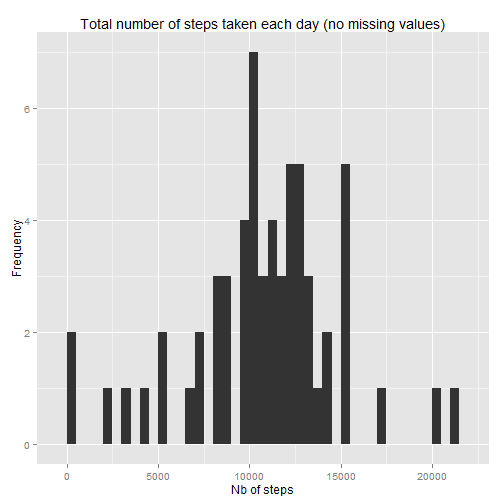
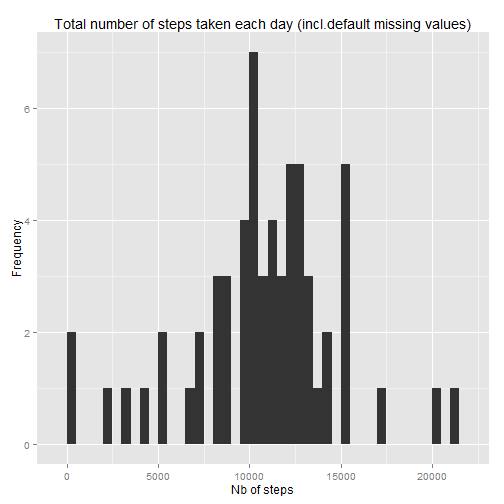
Fixing typos

Changed region(s): [[0.0893, 0.0298, 0.9524, 0.0595]]

diff --git a/PA1_template.html b/PA1_template.html
@@ -203,8 +203,9 @@ hr {
 <body>
 <h1>Reproducible Research: Peer Assessment 1</h1>
 
-<p>Coursera - S.Vercellotti - April 2015
-date: &ldquo;2015-04-18&rdquo;</p>
+<p>Coursera - Stephane Vercellotti</p>
+
+<p>Report generation date: &ldquo;2015-04-19&rdquo;</p>
 
 <p>output: 
   html_document:
@@ -278,11 +279,11 @@ print(g)
 <pre><code>## [1] 10765
 </code></pre>
 
-<p>The mean 10766.19 and the median 10765 are close to each other (<em>These values are highlighted on the above histogram</em>).</p>
+<p>The mean <strong>10766.19</strong> and the median <strong>10765</strong> are close to each other (<em>These values are highlighted on the above histogram as coloured lines</em>).</p>
 
 <h2>3. What is the average daily activity pattern?</h2>
 
-<p>Let&#39;s now group the dataframe across all intervals and get the mean steps values (*dataframe column name is &ldquo;mean_steps&rdquo;):</p>
+<p>Let&#39;s now group the dataframe across all intervals and get the mean steps values (<em>dataframe column name is &ldquo;mean_steps&rdquo;</em>):</p>
 
 <pre><code class="r">int_df  &lt;- df %&gt;% 
               group_by(interval) %&gt;% 
@@ -324,7 +325,7 @@ print(g)
 <p>There&#39;re <strong>2304</strong> missing values out of <strong>17568</strong> records. This represents roughly 
 <strong>13%</strong> which is quite significant.</p>
 
-<p>Defining a strategy for filling in all of the missing values in the dataset. </p>
+<p>###Devising a strategy for filling in all of the missing values in the dataset. </p>
 
 <pre><code class="r">qplot(interval,steps, data = df, na.rm=TRUE)
 </code></pre>
@@ -338,9 +339,9 @@ qplot(interval,steps, data = df, facets = . ~ weekday,na.rm=TRUE)
 
[1 lines of base64/hex data omitted]
 
-<p>One option to fill in missing observations could be to compte the mean number of steps per interval on a weekday basis as the above patterns seems to differ from one day to another. This hypothesis seems to make sense rather than computing the mean across all days. </p>
+<p>One option to fill in missing observations could be to compute the mean number of steps per interval on a weekday basis as the above patterns seems to differ from one day to another. This hypothesis seems to make sense rather than computing the mean across all days. </p>
 
-<p>Create a new dataset that is equal to the original dataset but with the missing data filled in.</p>
+<p>###Create a new dataset that is equal to the original dataset but with the missing data filled in.</p>
 
 <p>This section gets the mean nb of steps per interval per day, and merge the dataframes in order
 to replace NAs with the mean values as default values </p>
@@ -352,15 +353,17 @@ df_filled &lt;- merge(df,df_day,by=c(&quot;interval&quot;,&quot;weekday&quot;))
 df_filled$steps &lt;- ifelse(is.na(df_filled$steps),df_filled$default_steps, df_filled$steps)
 </code></pre>
 
+<p>Grouping by date:</p>
+
 <pre><code class="r">agg_df_filled &lt;- aggregate(steps ~ date,df_filled,sum)
 </code></pre>
 
 <pre><code class="r">g &lt;- ggplot(agg_df_filled, aes(x=steps)) + geom_histogram(binwidth=500)
-g &lt;- g + labs(title = &quot;Total number of steps taken each day (no missing values)&quot;, x = &quot;Nb of steps&quot;, y =&quot;Frequency&quot;)
+g &lt;- g + labs(title = &quot;Total number of steps taken each day (incl.default missing values)&quot;, x = &quot;Nb of steps&quot;, y =&quot;Frequency&quot;)
 print(g)
 </code></pre>
 
[2 lines of base64/hex data omitted]
 
 <p>Mean of the total of steps taken each day:</p>
 
@@ -378,7 +381,7 @@ print(g)
 <pre><code>## [1] 11015
 </code></pre>
 
-<p>These values differs from the estimate in question 1  </p>
+<p>These values differs from the estimate in question 1.  </p>
 
 <h2>5. Are there differences in activity patterns between weekdays and weekends?</h2>
 

diff --git a/PA1_template.md b/PA1_template.md
@@ -1,7 +1,8 @@
 Reproducible Research: Peer Assessment 1
 ========================================
-Coursera - S.Vercellotti - April 2015
-date: "2015-04-18"
+Coursera - Stephane Vercellotti
+
+Report generation date: "2015-04-19"
 
 output: 
   html_document:
@@ -93,13 +94,14 @@ median(agg_df$steps)
 ```
 
 
-The mean 10766.19 and the median 10765 are close to each other (*These values are highlighted on the above histogram*).
+
+The mean **10766.19** and the median **10765** are close to each other (*These values are highlighted on the above histogram as coloured lines*).
 
 
 
 ## 3. What is the average daily activity pattern?
 
-Let's now group the dataframe across all intervals and get the mean steps values (*dataframe column name is "mean_steps"):
+Let's now group the dataframe across all intervals and get the mean steps values (*dataframe column name is "mean_steps"*):
 
 ```r
 int_df  <- df %>% 
@@ -150,7 +152,7 @@ There're **2304** missing values out of **17568** records. This represents rough
 **13%** which is quite significant.
 
 
-Defining a strategy for filling in all of the missing values in the dataset. 
+###Devising a strategy for filling in all of the missing values in the dataset. 
 
 
 ```r
@@ -168,9 +170,9 @@ qplot(interval,steps, data = df, facets = . ~ weekday,na.rm=TRUE)
 
 ![plot of chunk ploting_per_day](figure/ploting_per_day-1.png) 
 
-One option to fill in missing observations could be to compte the mean number of steps per interval on a weekday basis as the above patterns seems to differ from one day to another. This hypothesis seems to make sense rather than computing the mean across all days. 
+One option to fill in missing observations could be to compute the mean number of steps per interval on a weekday basis as the above patterns seems to differ from one day to another. This hypothesis seems to make sense rather than computing the mean across all days. 
 
-Create a new dataset that is equal to the original dataset but with the missing data filled in.
+###Create a new dataset that is equal to the original dataset but with the missing data filled in.
 
 This section gets the mean nb of steps per interval per day, and merge the dataframes in order
 to replace NAs with the mean values as default values 
@@ -183,6 +185,8 @@ df_filled <- merge(df,df_day,by=c("interval","weekday"))
 df_filled$steps <- ifelse(is.na(df_filled$steps),df_filled$default_steps, df_filled$steps)
 ```
 
+Grouping by date:
+
 ```r
 agg_df_filled <- aggregate(steps ~ date,df_filled,sum)
 ```
@@ -190,7 +194,7 @@ agg_df_filled <- aggregate(steps ~ date,df_filled,sum)
 
 ```r
 g <- ggplot(agg_df_filled, aes(x=steps)) + geom_histogram(binwidth=500)
-g <- g + labs(title = "Total number of steps taken each day (no missing values)", x = "Nb of steps", y ="Frequency")
+g <- g + labs(title = "Total number of steps taken each day (incl.default missing values)", x = "Nb of steps", y ="Frequency")
 print(g)
 ```
 
@@ -216,7 +220,7 @@ median(agg_df_filled$steps)
 ## [1] 11015
 ```
 
-These values differs from the estimate in question 1  
+These values differs from the estimate in question 1.  
 
 
 
